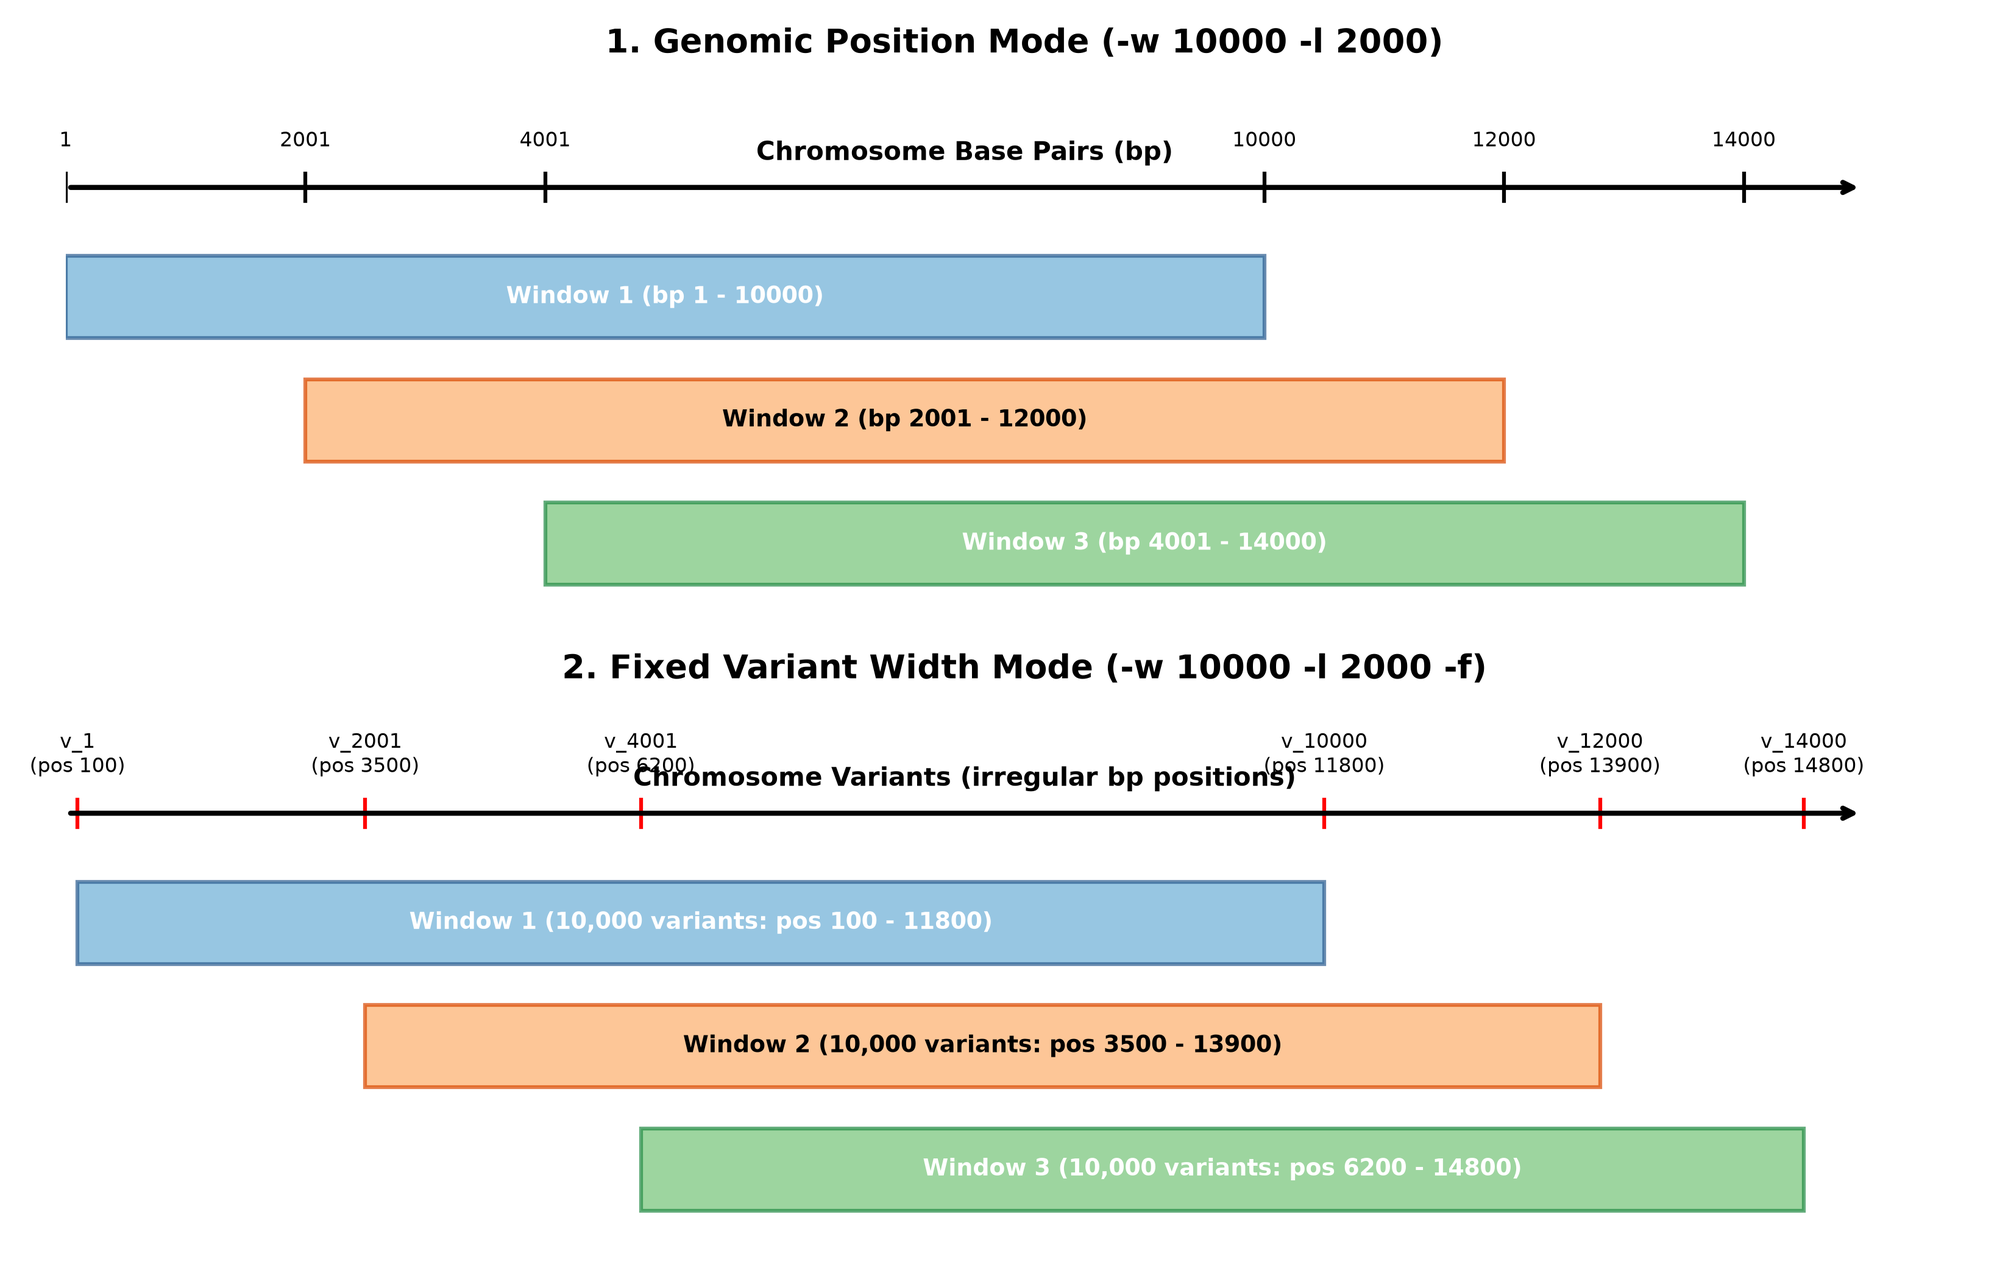
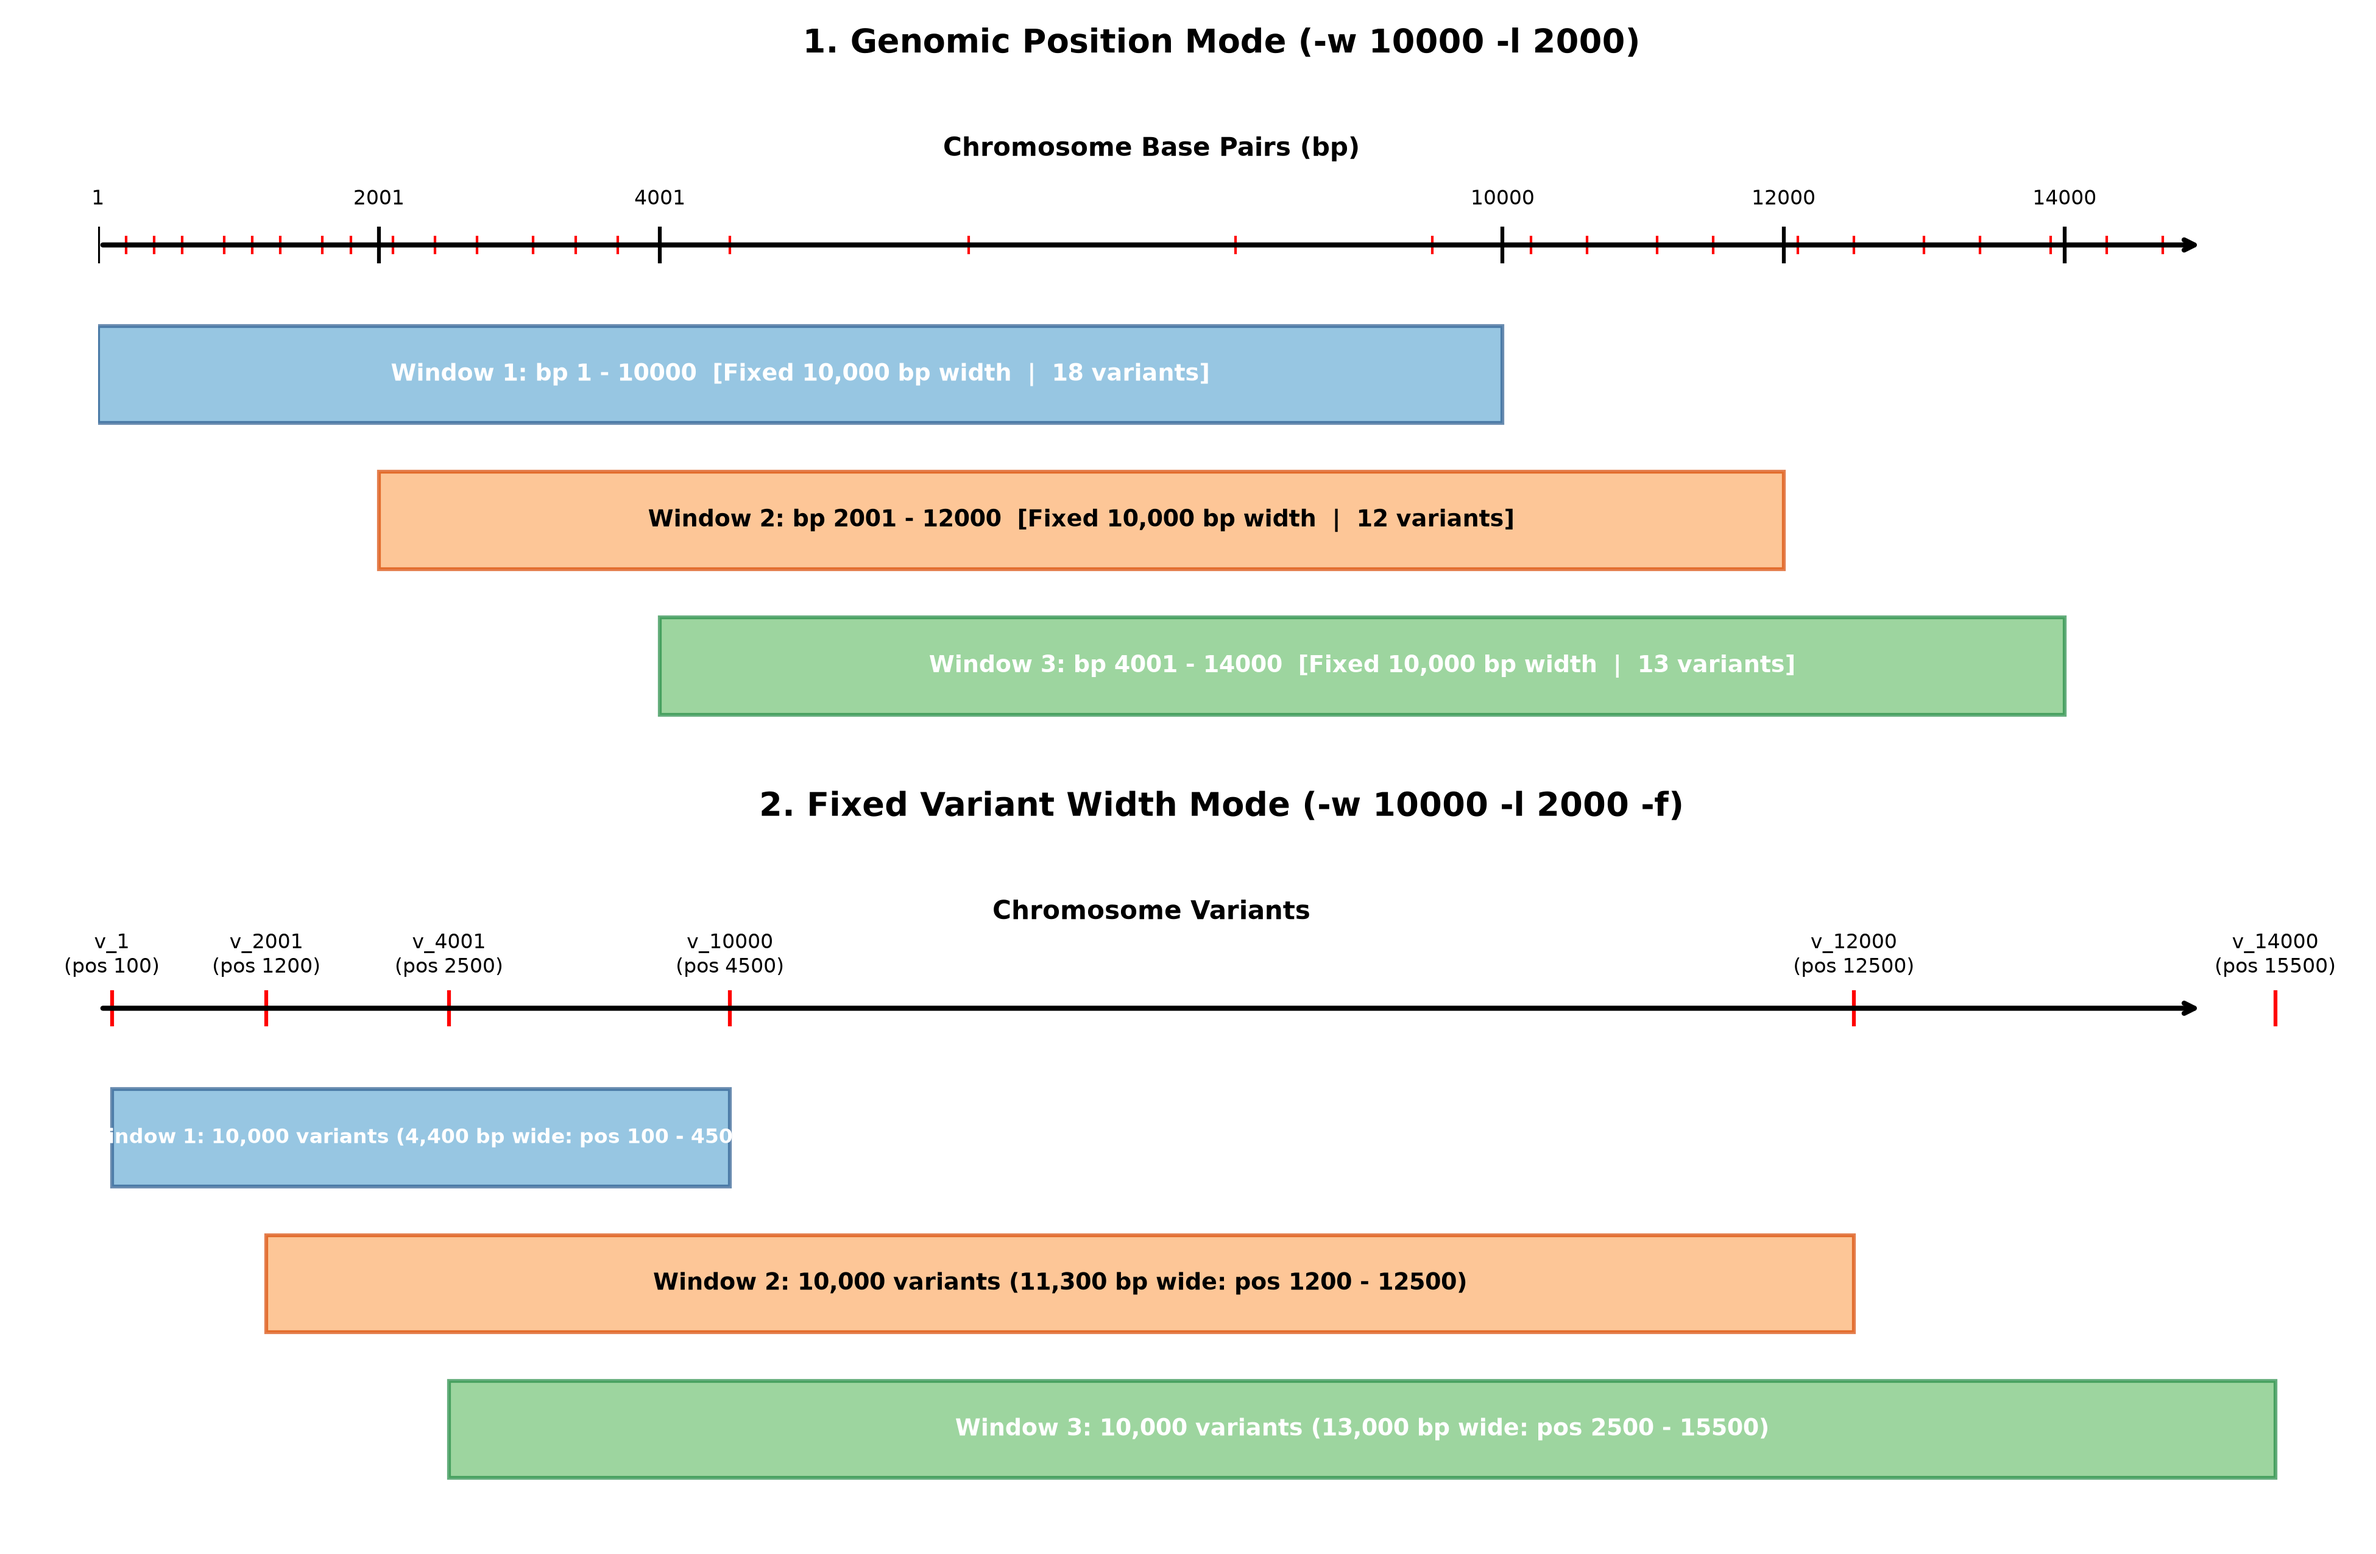
Add window overlap and fixed variant width mode to vcf_dist.py

diff --git a/generate_schematic.py b/generate_schematic.py
@@ -1,0 +1,89 @@
+#!/usr/bin/env python3
+import matplotlib.pyplot as plt
+import matplotlib.patches as patches
+
+fig, (ax1, ax2) = plt.subplots(2, 1, figsize=(13, 8.5), dpi=300)
+
+# --- Mode 1: Genomic Position Mode (-w 10000 -l 2000) ---
+ax1.set_title("1. Genomic Position Mode (-w 10000 -l 2000)", fontsize=13, fontweight='bold', pad=12)
+ax1.set_xlim(0, 16000)
+ax1.set_ylim(0, 4.2)
+ax1.axis('off')
+
+# Chromosome axis
+ax1.annotate('', xy=(15000, 3.2), xytext=(0, 3.2),
+             arrowprops=dict(arrowstyle="->", lw=2, color='black'))
+ax1.text(7500, 3.75, "Chromosome Base Pairs (bp)", ha='center', fontsize=10, fontweight='bold')
+
+# Ticks
+for pos in [1, 2001, 4001, 10000, 12000, 14000]:
+    ax1.plot([pos, pos], [3.1, 3.3], color='black', lw=1.5)
+    ax1.text(pos, 3.45, f"{pos}", ha='center', fontsize=8)
+
+# Variant positions on axis
+vars_dense1 = [200, 400, 600, 900, 1100, 1300, 1600, 1800, 2100, 2400, 2700, 3100, 3400, 3700]
+vars_sparse = [4500, 6200, 8100, 9500]
+vars_dense2 = [10200, 10600, 11100, 11500, 12100, 12500, 13000, 13400, 13900, 14300, 14700]
+all_vars = vars_dense1 + vars_sparse + vars_dense2
+
+for vpos in all_vars:
+    ax1.plot([vpos, vpos], [3.15, 3.25], color='red', lw=1)
+
+# Windows in Mode 1 (Fixed 10,000 bp width, variable variant counts)
+# Window 1
+rect1 = patches.Rectangle((1, 2.1), 9999, 0.6, linewidth=1.5, edgecolor='#2b5c8f', facecolor='#6baed6', alpha=0.7)
+ax1.add_patch(rect1)
+ax1.text(5000, 2.4, "Window 1: bp 1 - 10000  [Fixed 10,000 bp width  |  18 variants]", ha='center', va='center', fontsize=9, color='white', fontweight='bold')
+
+# Window 2
+rect2 = patches.Rectangle((2001, 1.2), 9999, 0.6, linewidth=1.5, edgecolor='#d94701', facecolor='#fdae6b', alpha=0.7)
+ax1.add_patch(rect2)
+ax1.text(7000, 1.5, "Window 2: bp 2001 - 12000  [Fixed 10,000 bp width  |  12 variants]", ha='center', va='center', fontsize=9, color='black', fontweight='bold')
+
+# Window 3
+rect3 = patches.Rectangle((4001, 0.3), 9999, 0.6, linewidth=1.5, edgecolor='#238b45', facecolor='#74c476', alpha=0.7)
+ax1.add_patch(rect3)
+ax1.text(9000, 0.6, "Window 3: bp 4001 - 14000  [Fixed 10,000 bp width  |  13 variants]", ha='center', va='center', fontsize=9, color='white', fontweight='bold')
+
+
+# --- Mode 2: Fixed Variant Width Mode (-w 10000 -l 2000 -f) ---
+ax2.set_title("2. Fixed Variant Width Mode (-w 10000 -l 2000 -f)", fontsize=13, fontweight='bold', pad=12)
+ax2.set_xlim(0, 16000)
+ax2.set_ylim(0, 4.2)
+ax2.axis('off')
+
+# Chromosome axis
+ax2.annotate('', xy=(15000, 3.2), xytext=(0, 3.2),
+             arrowprops=dict(arrowstyle="->", lw=2, color='black'))
+ax2.text(7500, 3.75, "Chromosome Variants", ha='center', fontsize=10, fontweight='bold')
+
+# Variant positions on axis (well spaced so text doesn't overlap)
+ax2.text(100, 3.42, "v_1\n(pos 100)", ha='center', fontsize=8)
+ax2.text(1200, 3.42, "v_2001\n(pos 1200)", ha='center', fontsize=8)
+ax2.text(2500, 3.42, "v_4001\n(pos 2500)", ha='center', fontsize=8)
+ax2.text(4500, 3.42, "v_10000\n(pos 4500)", ha='center', fontsize=8)
+ax2.text(12500, 3.42, "v_12000\n(pos 12500)", ha='center', fontsize=8)
+ax2.text(15500, 3.42, "v_14000\n(pos 15500)", ha='center', fontsize=8)
+
+for pos in [100, 1200, 2500, 4500, 12500, 15500]:
+    ax2.plot([pos, pos], [3.1, 3.3], color='red', lw=1.5)
+
+# Windows in Mode 2 (Fixed 10,000 variants, variable physical bp width)
+# Window 1: var 1..10000 (dense region: pos 100 - 4500 -> 4,400 bp wide)
+rect1_f = patches.Rectangle((100, 2.1), 4400, 0.6, linewidth=1.5, edgecolor='#2b5c8f', facecolor='#6baed6', alpha=0.7)
+ax2.add_patch(rect1_f)
+ax2.text(2300, 2.4, "Window 1: 10,000 variants (4,400 bp wide: pos 100 - 4500)", ha='center', va='center', fontsize=8, color='white', fontweight='bold')
+
+# Window 2: var 2001..12000 (sparse region: pos 1200 - 12500 -> 11,300 bp wide)
+rect2_f = patches.Rectangle((1200, 1.2), 11300, 0.6, linewidth=1.5, edgecolor='#d94701', facecolor='#fdae6b', alpha=0.7)
+ax2.add_patch(rect2_f)
+ax2.text(6850, 1.5, "Window 2: 10,000 variants (11,300 bp wide: pos 1200 - 12500)", ha='center', va='center', fontsize=9, color='black', fontweight='bold')
+
+# Window 3: var 4001..14000 (very sparse region: pos 2500 - 15500 -> 13,000 bp wide)
+rect3_f = patches.Rectangle((2500, 0.3), 13000, 0.6, linewidth=1.5, edgecolor='#238b45', facecolor='#74c476', alpha=0.7)
+ax2.add_patch(rect3_f)
+ax2.text(9000, 0.6, "Window 3: 10,000 variants (13,000 bp wide: pos 2500 - 15500)", ha='center', va='center', fontsize=9, color='white', fontweight='bold')
+
+plt.tight_layout()
+plt.savefig("window_schematic.png", dpi=300)
+print("Updated window_schematic.png successfully")
